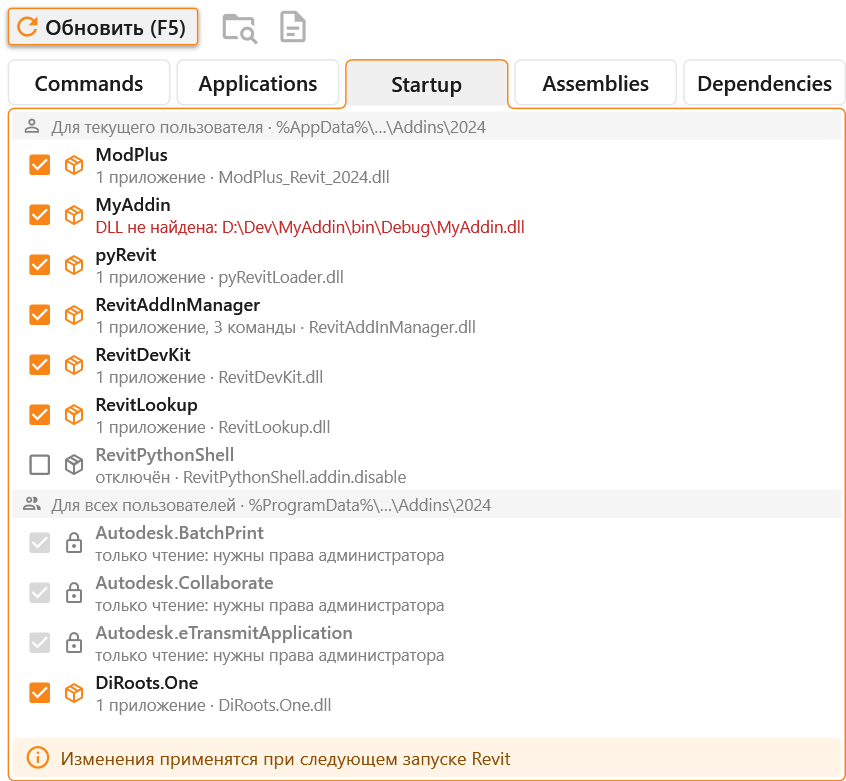
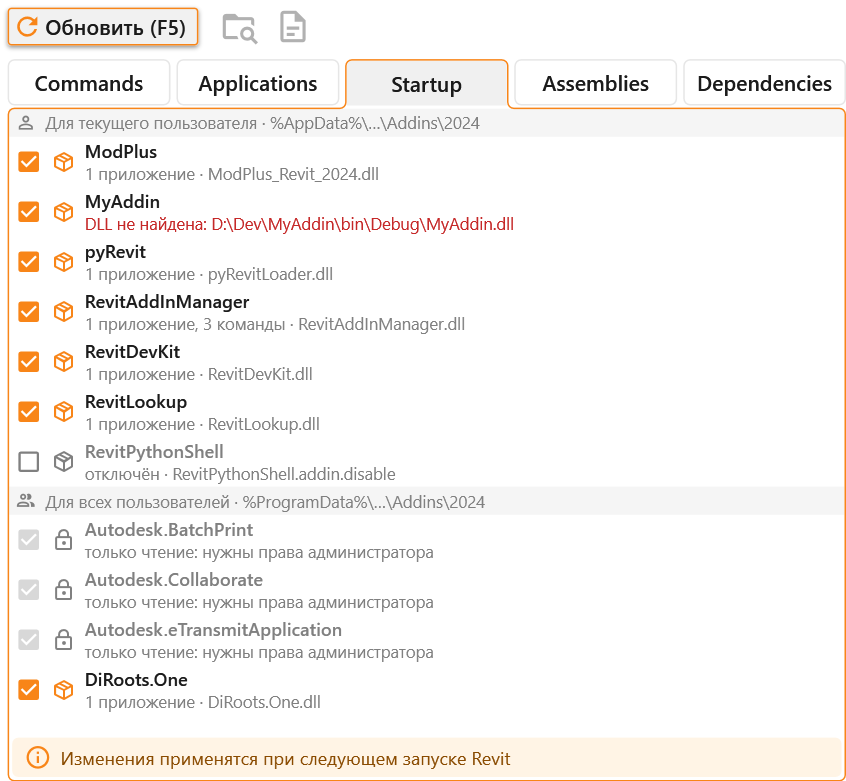
Add-in Explorer: reports saved to a text file, aligned markdown tables, even left margins

Changed region(s): [[0.0, 0.1536, 0.6147, 0.9219]]

diff --git a/source/UI/DllRunner/AssemblyRunnerWindow.xaml b/source/UI/DllRunner/AssemblyRunnerWindow.xaml
@@ -223,9 +223,9 @@
                 </StackPanel>
             </Button>
 
-            <Button Width="25" Height="25" Margin="15 0 0 0" Padding="0" Command="{Binding Dependencies.CopyReportCommand}"
-                    Style="{StaticResource MaterialDesignFlatButton}" ToolTip="Копировать отчёт в markdown">
-                <materialDesign:PackIcon Kind="ContentCopy" Width="22" Height="22" Foreground="{StaticResource IconBrush}"/>
+            <Button Width="25" Height="25" Margin="15 0 0 0" Padding="0" Command="{Binding Dependencies.SaveReportCommand}"
+                    Style="{StaticResource MaterialDesignFlatButton}" ToolTip="Сохранить отчёт в текстовый файл (markdown) и показать его в проводнике">
+                <materialDesign:PackIcon Kind="FileDocumentArrowRightOutline" Width="24" Height="24" Foreground="{StaticResource IconBrush}"/>
             </Button>
 
             <Button Width="25" Height="25" Margin="10 0 0 0" Padding="0" Command="{Binding Dependencies.RevealInExplorerCommand}"
@@ -247,9 +247,9 @@
                 </StackPanel>
             </Button>
 
-            <Button Width="25" Height="25" Margin="15 0 0 0" Padding="0" Command="{Binding LoadedAssemblies.CopyListCommand}"
-                    Style="{StaticResource MaterialDesignFlatButton}" ToolTip="Копировать показанный список в markdown">
-                <materialDesign:PackIcon Kind="ContentCopy" Width="22" Height="22" Foreground="{StaticResource IconBrush}"/>
+            <Button Width="25" Height="25" Margin="15 0 0 0" Padding="0" Command="{Binding LoadedAssemblies.SaveListCommand}"
+                    Style="{StaticResource MaterialDesignFlatButton}" ToolTip="Сохранить показанный список в текстовый файл (markdown) и показать его в проводнике">
+                <materialDesign:PackIcon Kind="FileDocumentArrowRightOutline" Width="24" Height="24" Foreground="{StaticResource IconBrush}"/>
             </Button>
 
             <Button Width="25" Height="25" Margin="10 0 0 0" Padding="0" Command="{Binding LoadedAssemblies.RevealInExplorerCommand}"
@@ -303,7 +303,8 @@
                         </DockPanel>
 
                         <Grid>
-                            <TreeView ItemsSource="{Binding Assemblies}" Margin="2" TabIndex="0">
+                            <!-- MaterialDesign's expander keeps 8 to its left; the tree moves over so it starts 4 from the frame, as the lists do. -->
+                            <TreeView ItemsSource="{Binding Assemblies}" Margin="-4 0 0 0" TabIndex="0">
                                 <TreeView.Resources>
                                     <BooleanToVisibilityConverter x:Key="BoolToVisibility"/>
 
@@ -404,7 +405,7 @@
 
             <TabItem Header="Applications" Style="{StaticResource FramedTabItem}" HeaderTemplate="{StaticResource TabHeader}">
                 <Grid>
-                    <ListBox ItemsSource="{Binding Apps.Items}" SelectedItem="{Binding Apps.SelectedItem}" Margin="2"
+                    <ListBox ItemsSource="{Binding Apps.Items}" SelectedItem="{Binding Apps.SelectedItem}" Margin="0"
                              HorizontalContentAlignment="Stretch" ItemContainerStyle="{StaticResource CompactListBoxItem}">
 
                         <ListBox.ItemTemplate>
@@ -489,14 +490,29 @@
                     </Border>
 
                     <Grid>
-                        <ListBox ItemsSource="{Binding Startup.View}" SelectedItem="{Binding Startup.SelectedItem}" Margin="2"
+                        <ListBox ItemsSource="{Binding Startup.View}" SelectedItem="{Binding Startup.SelectedItem}" Margin="0"
                                  HorizontalContentAlignment="Stretch" ScrollViewer.HorizontalScrollBarVisibility="Disabled"
                                  ItemContainerStyle="{StaticResource CompactListBoxItem}">
                             <ListBox.GroupStyle>
+                                <!-- A plain group: a header over its rows, no indent, so the rows line up with the other tabs'. -->
                                 <GroupStyle>
+                                    <GroupStyle.ContainerStyle>
+                                        <Style TargetType="GroupItem">
+                                            <Setter Property="Template">
+                                                <Setter.Value>
+                                                    <ControlTemplate TargetType="GroupItem">
+                                                        <StackPanel>
+                                                            <ContentPresenter/>
+                                                            <ItemsPresenter/>
+                                                        </StackPanel>
+                                                    </ControlTemplate>
+                                                </Setter.Value>
+                                            </Setter>
+                                        </Style>
+                                    </GroupStyle.ContainerStyle>
                                     <GroupStyle.HeaderTemplate>
                                         <DataTemplate>
-                                            <Border Background="#0A000000" Padding="6 2">
+                                            <Border Background="#0A000000" Padding="4 2">
                                                 <DockPanel>
                                                     <materialDesign:PackIcon DockPanel.Dock="Left" Width="14" Height="14" Foreground="Gray"
                                                                              VerticalAlignment="Center" Margin="0 0 6 0">
@@ -618,7 +634,8 @@
             <TabItem Header="Assemblies" Style="{StaticResource FramedTabItem}" HeaderTemplate="{StaticResource TabHeader}">
                 <!-- The list comes first in focus order, as on Dependencies: a click on the tab does not land in the search box. -->
                 <DockPanel KeyboardNavigation.TabNavigation="Local">
-                    <DockPanel DockPanel.Dock="Top" Margin="4 2">
+                    <!-- As tall as the row with the collapse button on Commands and Dependencies: the box sits at the same height. -->
+                    <DockPanel DockPanel.Dock="Top" Margin="4 2" MinHeight="25">
                         <materialDesign:PackIcon DockPanel.Dock="Left" Kind="Magnify" Width="20" Height="20" Foreground="Gray"
                                                  VerticalAlignment="Center" Margin="0 0 6 0"/>
                         <TextBox Text="{Binding LoadedAssemblies.SearchText, UpdateSourceTrigger=PropertyChanged}" VerticalAlignment="Center" Padding="5 2"
@@ -627,7 +644,7 @@
                     </DockPanel>
 
                     <Grid>
-                        <ListBox ItemsSource="{Binding LoadedAssemblies.Items}" SelectedItem="{Binding LoadedAssemblies.SelectedItem}" Margin="2" TabIndex="0"
+                        <ListBox ItemsSource="{Binding LoadedAssemblies.Items}" SelectedItem="{Binding LoadedAssemblies.SelectedItem}" Margin="0" TabIndex="0"
                                  HorizontalContentAlignment="Stretch" ScrollViewer.HorizontalScrollBarVisibility="Disabled"
                                  ItemContainerStyle="{StaticResource CompactListBoxItem}">
                             <ListBox.ItemTemplate>
@@ -648,7 +665,7 @@
                                         </Grid.ContextMenu>
 
                                         <Grid.ColumnDefinitions>
-                                            <ColumnDefinition Width="34"/>
+                                            <ColumnDefinition Width="Auto"/>
                                             <ColumnDefinition Width="Auto"/>
                                             <ColumnDefinition Width="*"/>
                                             <ColumnDefinition Width="Auto"/>
@@ -658,8 +675,9 @@
                                             <RowDefinition Height="Auto"/>
                                         </Grid.RowDefinitions>
 
+                                        <!-- Padded with spaces to the longest number in the list: a column only as wide as it needs. -->
                                         <TextBlock Grid.RowSpan="2" Text="{Binding Number}" FontFamily="Consolas" FontSize="11" Foreground="Gray"
-                                                   TextAlignment="Right" VerticalAlignment="Center" Margin="0 0 8 0"/>
+                                                   VerticalAlignment="Center" Margin="0 0 6 0"/>
 
                                         <!-- Orange: the same name is loaded more than once. -->
                                         <TextBlock Grid.Column="1" Text="{Binding Name}">
@@ -728,7 +746,8 @@
                     </DockPanel>
 
                     <Grid>
-                        <TreeView ItemsSource="{Binding Dependencies.Sections}" Margin="2" Grid.IsSharedSizeScope="True" TabIndex="0">
+                        <!-- As on Commands: the expander starts 4 from the frame. -->
+                        <TreeView ItemsSource="{Binding Dependencies.Sections}" Margin="-4 0 0 0" Grid.IsSharedSizeScope="True" TabIndex="0">
                             <TreeView.Resources>
                                 <!-- Compact: a small expander (it is also the indent of each level) and no padding. -->
                                 <Style TargetType="TreeViewItem" BasedOn="{StaticResource {x:Type TreeViewItem}}">

diff --git a/source/UI/DllRunner/AssembliesVM.cs b/source/UI/DllRunner/AssembliesVM.cs
@@ -14,9 +14,11 @@ namespace RevitDevKit.UI.DllRunner
 {
     public sealed class LoadedAssemblyVM
     {
-        public LoadedAssemblyVM(ProcessAssembly assembly, IReadOnlyList<ProcessAssembly> sameName)
+        // digits: of the largest number in the list, so the numbers line up right in a column just as wide.
+        public LoadedAssemblyVM(ProcessAssembly assembly, IReadOnlyList<ProcessAssembly> sameName, int digits)
         {
             Assembly = assembly;
+            Number = assembly.Number.ToString().PadLeft(digits);
             ToolTip = (assembly.FullName ?? assembly.Name)
                       + (string.IsNullOrEmpty(assembly.FileVersion) ? string.Empty : "\nВерсия файла " + assembly.FileVersion)
                       + "\n" + ProcessAssemblies.Where(assembly)
@@ -27,7 +29,7 @@ namespace RevitDevKit.UI.DllRunner
         }
 
         public ProcessAssembly Assembly { get; }
-        public string Number => Assembly.Number.ToString();
+        public string Number { get; }
         public string Name => Assembly.Name;
         public string Version => Assembly.Version?.ToString() ?? string.Empty;
         public string Owner => Assembly.Owner ?? string.Empty;
@@ -94,8 +96,10 @@ namespace RevitDevKit.UI.DllRunner
                 .ToDictionary(g => g.Key, g => (IReadOnlyList<ProcessAssembly>)g.ToList(), StringComparer.OrdinalIgnoreCase);
 
             Items.Clear();
-            foreach (var assembly in _all.Where(a => !HideSystem || !a.IsSystem).Where(Matches))
-                Items.Add(new LoadedAssemblyVM(assembly, byName[assembly.Name]));
+            var shown = _all.Where(a => !HideSystem || !a.IsSystem).Where(Matches).ToList();
+            var digits = shown.Count == 0 ? 1 : shown.Max(a => a.Number).ToString().Length;
+            foreach (var assembly in shown)
+                Items.Add(new LoadedAssemblyVM(assembly, byName[assembly.Name], digits));
 
             SelectedItem = Items.FirstOrDefault(i => i.Assembly.Number == selected);
             IsEmpty = Items.Count == 0;
@@ -119,17 +123,18 @@ namespace RevitDevKit.UI.DllRunner
             _noticeTimer.Start();
         }
 
+        // The list as shown goes to a text file, shown in Explorer.
         [RelayCommand]
-        private void CopyList()
+        private void SaveList()
         {
             try
             {
-                Clipboard.SetText(ProcessAssemblies.ToMarkdown(Items.Select(i => i.Assembly), _all.Count));
-                Notify("Список скопирован");
+                var path = ReportFiles.Save("Assemblies", ProcessAssemblies.ToMarkdown(Items.Select(i => i.Assembly), _all.Count));
+                Notify("Список сохранён: " + Path.GetFileName(path));
             }
             catch (Exception ex)
             {
-                ConsoleOutput.Exception(ex, "Не удалось скопировать список:");
+                ConsoleOutput.Exception(ex, "Не удалось сохранить список:");
             }
         }
 

diff --git a/source/UI/DllRunner/DependenciesVM.cs b/source/UI/DllRunner/DependenciesVM.cs
@@ -164,7 +164,7 @@ namespace RevitDevKit.UI.DllRunner
 
         [ObservableProperty]
         [NotifyCanExecuteChangedFor(nameof(RefreshCommand))]
-        [NotifyCanExecuteChangedFor(nameof(CopyReportCommand))]
+        [NotifyCanExecuteChangedFor(nameof(SaveReportCommand))]
         private bool _isBusy;
 
         // The status bar: the check on the left, a short note of the last action on the right, gone after a while.
@@ -227,7 +227,7 @@ namespace RevitDevKit.UI.DllRunner
         {
             _report = report;
             OnPropertyChanged(nameof(HasReport));
-            CopyReportCommand.NotifyCanExecuteChanged();
+            SaveReportCommand.NotifyCanExecuteChanged();
             IsBusy = false;
 
             var conflicts = report.Groups.Count(g => g.IsConflict);
@@ -341,19 +341,20 @@ namespace RevitDevKit.UI.DllRunner
             _noticeTimer.Start();
         }
 
-        private bool CanCopy() => _report != null && !IsBusy;
+        private bool CanSave() => _report != null && !IsBusy;
 
-        [RelayCommand(CanExecute = nameof(CanCopy))]
-        private void CopyReport()
+        // The report goes to a text file, shown in Explorer.
+        [RelayCommand(CanExecute = nameof(CanSave))]
+        private void SaveReport()
         {
             try
             {
-                Clipboard.SetText(AddinDependencies.ToMarkdown(_report, OnlyProblems));
-                Notify("Отчёт скопирован");
+                var path = ReportFiles.Save("Dependencies", AddinDependencies.ToMarkdown(_report, OnlyProblems));
+                Notify("Отчёт сохранён: " + Path.GetFileName(path));
             }
             catch (Exception ex)
             {
-                ConsoleOutput.Exception(ex, "Не удалось скопировать отчёт:");
+                ConsoleOutput.Exception(ex, "Не удалось сохранить отчёт:");
             }
         }
 

diff --git a/source/Core/ReportFiles.cs b/source/Core/ReportFiles.cs
@@ -1,0 +1,33 @@
+using System;
+using System.Diagnostics;
+using System.IO;
+using System.Text;
+
+namespace RevitDevKit.Core
+{
+    // Reports of Add-in Explorer go to a text file in the temp folder, shown in Explorer, rather than to the clipboard:
+    // the user opens it in any editor, attaches it to an issue or keeps it.
+    public static class ReportFiles
+    {
+        // Tests point it at their own folder and catch what would be shown in Explorer.
+        public static string Folder { get; set; } = Path.Combine(Path.GetTempPath(), "RevitDevKit", "Reports");
+        public static Action<string> Reveal { get; set; } = RevealInExplorer;
+
+        // Writes the text to <name>-<Revit version>-<time>.txt and shows the file in Explorer. Returns its path.
+        public static string Save(string name, string text)
+        {
+            Directory.CreateDirectory(Folder);
+            var version = string.IsNullOrEmpty(AddinManifests.RevitVersion) ? string.Empty : "-Revit" + AddinManifests.RevitVersion;
+            var path = Path.Combine(Folder, name + version + "-" + DateTime.Now.ToString("yyyy-MM-dd_HH-mm-ss") + ".txt");
+            File.WriteAllText(path, text, new UTF8Encoding(true));
+            Reveal(path);
+            return path;
+        }
+
+        public static void RevealInExplorer(string path)
+        {
+            if (!File.Exists(path)) return;
+            Process.Start("explorer.exe", "/select,\"" + path + "\"");
+        }
+    }
+}

diff --git a/source/Core/AddinDependencies.cs b/source/Core/AddinDependencies.cs
@@ -563,14 +563,17 @@ namespace RevitDevKit.Core
             return text.ToString();
         }
 
-        private static void Table(StringBuilder text, string[] header, IEnumerable<string[]> rows)
+        // A markdown table padded to the longest cell of each column, so it reads as a table in plain text too.
+        // Columns listed in rightAligned (numbers) are padded on the left and marked ---: for the renderers.
+        internal static void Table(StringBuilder text, string[] header, IEnumerable<string[]> rows, params int[] rightAligned)
         {
             var all = new[] { header }.Concat(rows).ToList();
             var widths = Enumerable.Range(0, header.Length).Select(i => all.Max(r => r[i].Length)).ToList();
-            string Line(string[] cells) => "| " + string.Join(" | ", cells.Select((c, i) => c.PadRight(widths[i]))) + " |";
+            bool Right(int i) => rightAligned.Contains(i);
+            string Line(string[] cells) => "| " + string.Join(" | ", cells.Select((c, i) => Right(i) ? c.PadLeft(widths[i]) : c.PadRight(widths[i]))) + " |";
 
             text.AppendLine(Line(header));
-            text.AppendLine("|" + string.Join("|", widths.Select(w => new string('-', w + 2))) + "|");
+            text.AppendLine("|" + string.Join("|", widths.Select((w, i) => Right(i) ? new string('-', w + 1) + ":" : new string('-', w + 2))) + "|");
             foreach (var row in all.Skip(1))
                 text.AppendLine(Line(row));
         }

diff --git a/source/Core/ProcessAssemblies.cs b/source/Core/ProcessAssemblies.cs
@@ -199,11 +199,9 @@ namespace RevitDevKit.Core
             text.AppendLine("### Revit " + (AddinManifests.RevitVersion ?? "") + ": загруженные сборки (" + DateTime.Now.ToString("yyyy-MM-dd HH:mm")
                             + ", показано " + rows.Count + " из " + total + ")");
             text.AppendLine();
-            text.AppendLine("| № | Сборка | Версия | Версия файла | Чья | Путь |");
-            text.AppendLine("|---:|---|---|---|---|---|");
-            foreach (var a in rows)
-                text.AppendLine("| " + a.Number + " | " + Cell(a.Name) + (a.IsDuplicate ? " ⚠" : "") + " | " + a.Version + " | " + Cell(a.FileVersion)
-                                + " | " + Cell(a.Owner) + " | " + Cell(Where(a)) + " |");
+            AddinDependencies.Table(text, new[] { "№", "Сборка", "Версия", "Версия файла", "Чья", "Путь" },
+                rows.Select(a => new[] { a.Number.ToString(), Cell(a.Name) + (a.IsDuplicate ? " ⚠" : ""), Cell(a.Version?.ToString()),
+                    Cell(a.FileVersion), Cell(a.Owner), Cell(Where(a)) }), 0);
             return text.ToString();
         }
 

diff --git a/README.md b/README.md
@@ -108,7 +108,7 @@ Under each name is what the file contains and its DLL, and in red what is wrong:
 
 Every assembly loaded into Revit right now, with a number and a path. The number is its place in the `AppDomain`'s list, roughly the load order. On the right is whose it is: an add-in's (by its folder), Revit's, .NET's, the GAC's or DevKit's. Assemblies without a file, such as scripts and DLL commands DevKit loaded from bytes, say **в памяти** (in memory); a copy of a DLL names the file it came from.
 
-Assemblies loaded more than once under the same name are orange, and the tooltip lists every copy. **Скрыть системные** (hide system) hides .NET, the GAC, Revit's own and dynamic assemblies, leaving the add-ins and their DLLs. The list is read again each time the tab opens and on F5. A right click shows an assembly in Explorer or copies its path, and the copy button puts the list as shown on the clipboard in markdown.
+Assemblies loaded more than once under the same name are orange, and the tooltip lists every copy. **Скрыть системные** (hide system) hides .NET, the GAC, Revit's own and dynamic assemblies, leaving the add-ins and their DLLs. The list is read again each time the tab opens and on F5. A right click shows an assembly in Explorer or copies its path, and the report button saves the list as shown to a text file in `%TEMP%\RevitDevKit\Reports`, a markdown table, and shows the file in Explorer.
 
 ### Dependencies
 
@@ -121,7 +121,7 @@ This tab finds DLLs that several add-ins of the running Revit version, or an add
 - With **Только конфликты** (conflicts only) cleared, signed DLLs of different versions show too: .NET loads each add-in its own version, side by side. Revit's redirects count only for the versions their `oldVersion` names.
 - DLLs that differ only between Revit and Autodesk's own add-ins are not counted as conflicts, since they cannot be changed anyway. With the box cleared they show under **Только Revit и Autodesk** (Revit and Autodesk only). An add-in is Autodesk's if its `.addin` says `VendorId` `ADSK` or its DLL names Autodesk as the company.
 
-The copy loaded in this session is marked. A right click on a DLL or an add-in shows it in Explorer or copies its path. An add-in's DLLs are the ones in the folder of its assembly, read from their headers without loading them. Language resources (folders such as `en-US` and `*.resources.dll`) are left out: they are the same DLL in another language. The copy button puts a markdown report on the clipboard.
+The copy loaded in this session is marked. A right click on a DLL or an add-in shows it in Explorer or copies its path. An add-in's DLLs are the ones in the folder of its assembly, read from their headers without loading them. Language resources (folders such as `en-US` and `*.resources.dll`) are left out: they are the same DLL in another language. The report button saves a markdown report to a text file in `%TEMP%\RevitDevKit\Reports` and shows the file in Explorer.
 
 ## Console
 
